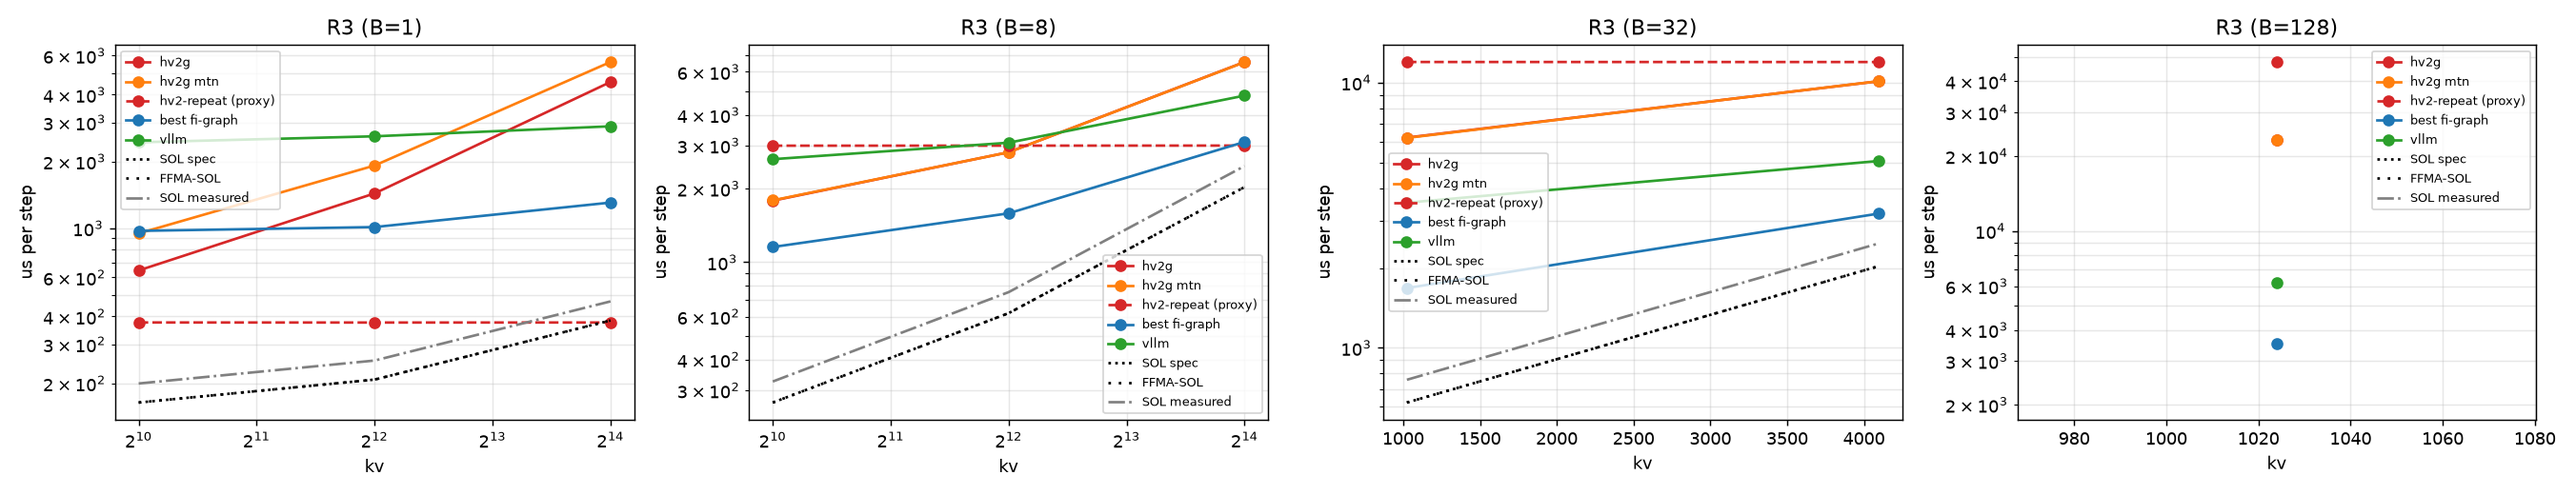
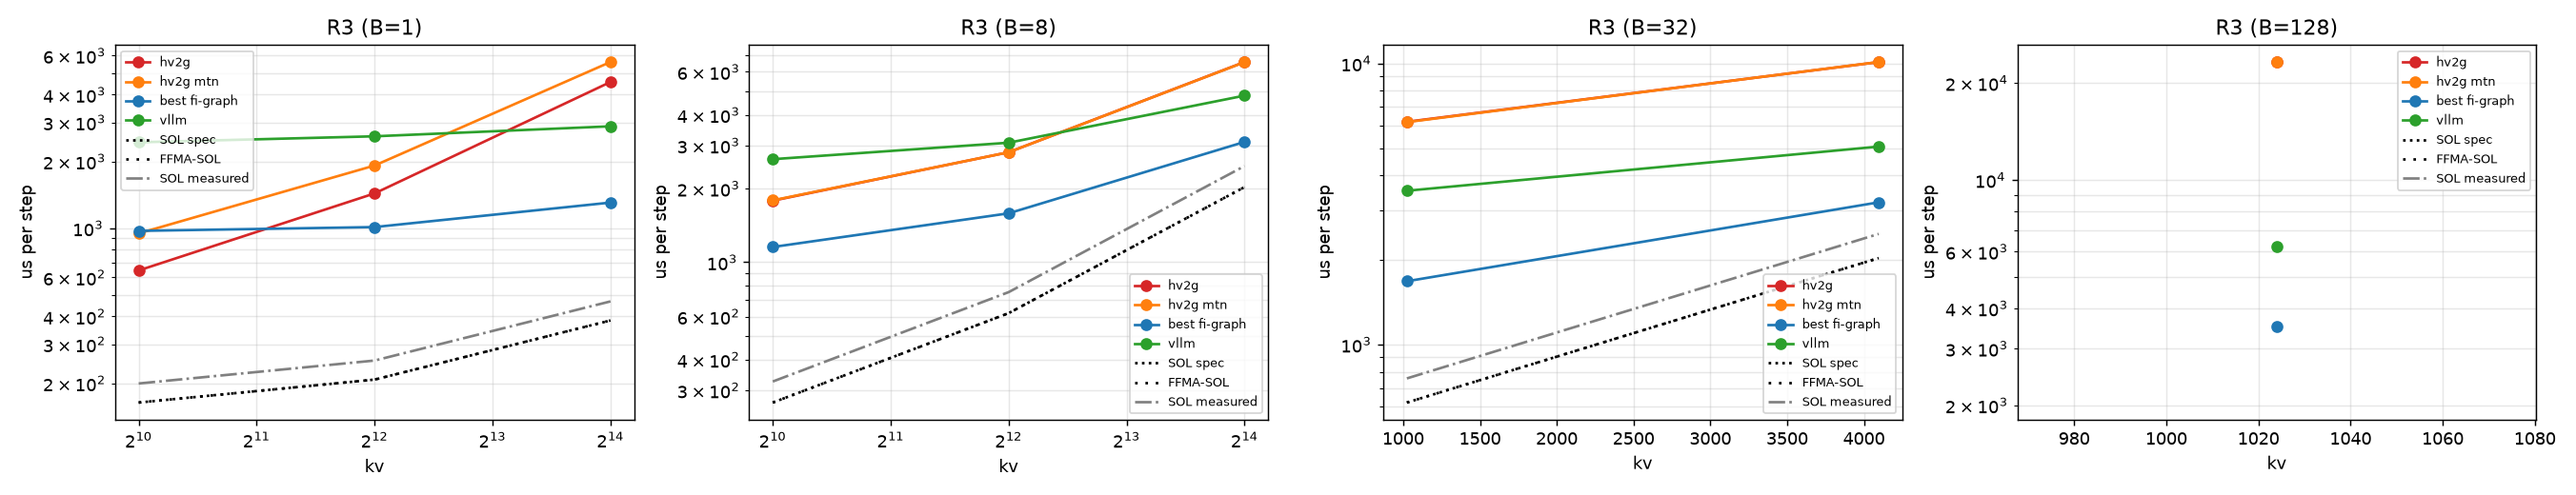
Report: show hv2-repeat proxy only in R0/R1, where its b1/kv128 work matches the step

diff --git a/regimebench/report.py b/regimebench/report.py
@@ -22,6 +22,8 @@ DASH = "-"
 FALLBACK_CLOCK_MHZ = 1965
 HEADLINE = "hv2g"
 PROXY = "hv2-repeat"
+# hv2-repeat runs b1/kv128 work per launch; it matches the real step only where every sequence is kv 128, q 1.
+PROXY_REGIMES = {"R0", "R1"}
 BASELINE = "fi-graph"
 VLLM = "vllm"
 REGIME_ORDER = [f"R{i}" for i in range(9)]
@@ -152,7 +154,7 @@ def regime_table(d: Data, regime: str) -> str:
         vl = (f"{_f(r['vllm'][1])} / {_f(r['vllm_gpu'])} ({r['vllm'][0]})") if r["vllm"] else DASH
         out.append("| " + " | ".join([
             r["id"], f"{_f(r['sol_us'])} ({r['bound'] or DASH})", _f(r["ffma_us"]), _cell(r["hv2g"]),
-            _cell(r["mtn"]), _cell(r["proxy"]), best, vl,
+            _cell(r["mtn"]), _cell(r["proxy"]) if regime in PROXY_REGIMES else "n/a", best, vl,
             _f(r["ratio"], "{:.2f}"), _f(r["pct_hv2g"]), _f(r["pct_ffma_hv2g"]), _f(r["pct_best"])]) + " |")
     return "\n".join(out)
 
@@ -307,7 +309,8 @@ def header(d: Data, records: list[dict]) -> str:
              f"cuBLAS bf16 {_f(gemm.get('peak_tflops'), '{:.0f}')} TFLOP/s, "
              f"SM clock at probe {clk.get('sm_mhz', DASH)} MHz",
              "- All times are microseconds per step (steady = back-to-back launches). "
-             "hv2-repeat is a timing proxy (N repeated b1 decodes), not a correct forward."]
+             "hv2-repeat is a timing proxy (N repeated b1 decodes), not a correct forward; shown only in R0/R1, "
+             "where its b1/kv128 work matches the step (elsewhere it skips KV work and can fall below SOL)."]
     lines.append("- FFMA-SOL = max(T_bw, flops / (148 SMs x 128 lanes x 2 x probed SM clock)); a ceiling for an "
                  "FP32-FFMA design like hv2g, not for a tensor-core one (hypothesis-grade model, not a measurement).")
     for rid in sorted({r.get("run_id") for r in records if r.get("run_id")}):
@@ -352,8 +355,9 @@ def plot_regime(d: Data, regime: str, out_dir: Path) -> Path | None:
                 ax.plot(*zip(*pairs), label=label, **{"marker": "o", **kw})
         series([r["hv2g"][1] if r["hv2g"] else None for r in rows], "hv2g", color="C3")
         series([r["mtn"][1] if r["mtn"] else None for r in rows], "hv2g mtn", color="C1")
-        series([r["proxy"][1] if r["proxy"] else None for r in rows], "hv2-repeat (proxy)",
-               color="C3", linestyle="--")
+        if regime in PROXY_REGIMES:
+            series([r["proxy"][1] if r["proxy"] else None for r in rows], "hv2-repeat (proxy)",
+                   color="C3", linestyle="--")
         series([r["best"][1] if r["best"] else None for r in rows], "best fi-graph", color="C0")
         series([r["vllm"][1] if r["vllm"] else None for r in rows], "vllm", color="C2")
         series([r["sol_us"] for r in rows], "SOL spec", color="k", linestyle=":", marker="")

diff --git a/results/2026-10-22-b200/REPORT.md b/results/2026-10-22-b200/REPORT.md
@@ -4,7 +4,7 @@
 - GPU: NVIDIA B200 (148 SMs), driver 580.178.04, host cayenne
 - Versions: torch 2.13.0, flashinfer-python 0.7.0.post1, vllm 0.31.0, triton 3.7.1, nvidia-ml-py 13.615.71; git a9e936ffdb (dirty)
 - SOL spec: 8.0 TB/s, BF16 dense 2.25 PFLOP/s (datasheet-derived, unverified); measured: copy BW 6546 GB/s median, cuBLAS bf16 1659 TFLOP/s, SM clock at probe 1965 MHz
-- All times are microseconds per step (steady = back-to-back launches). hv2-repeat is a timing proxy (N repeated b1 decodes), not a correct forward.
+- All times are microseconds per step (steady = back-to-back launches). hv2-repeat is a timing proxy (N repeated b1 decodes), not a correct forward; shown only in R0/R1, where its b1/kv128 work matches the step (elsewhere it skips KV work and can fall below SOL).
 - FFMA-SOL = max(T_bw, flops / (148 SMs x 128 lanes x 2 x probed SM clock)); a ceiling for an FP32-FFMA design like hv2g, not for a tensor-core one (hypothesis-grade model, not a measurement).
 - Run 20261023T061931Z-full-R0R1 (slurm job 9471, SM clock at probe 1965 MHz): regimes R0, R1
 - Run 20261023T061931Z-full-R2R8 (slurm job 9472, SM clock at probe 1965 MHz): regimes R2, R8
@@ -57,14 +57,14 @@
 
 | point | SOL us (bound) | FFMA-SOL us | hv2g us | hv2g mtn us | hv2-repeat us (proxy) | best baseline us (variant) | vllm wall / gpu us | hv2g/best | %SOL hv2g | %FFMA-SOL hv2g | %SOL best |
 |---|---|---|---|---|---|---|---|---|---|---|---|
-| R2-b1-kv128 | 150.9 (memory) | 150.9 | 377.7 | 667.1 | 373.3 | 883.8 (graph-pdl-best) | 2478.9 / 1819.5 (pdl) | 0.43 | 40.0 | 40.0 | 17.1 |
-| R2-b1-kv512 | 156.4 (memory) | 156.4 | 509.7 | 793.9 | 373.2 | 973.4 (graph-pdl-best) | 2531.3 / 1854.2 (nopdl) | 0.52 | 30.7 | 30.7 | 16.1 |
-| R2-b1-kv1024 | 163.8 (memory) | 163.8 | 639.4 | 951.5 | 373.2 | 975.2 (graph-pdl-best) | 2449.5 / 1857.7 (pdl) | 0.66 | 25.6 | 25.6 | 16.8 |
-| R2-b1-kv2048 | 178.5 (memory) | 178.5 | 907.6 | 1280.1 | 372.5 | 982.5 (graph-pdl-best) | 2557.5 / 1886.8 (pdl) | 0.92 | 19.7 | 19.7 | 18.2 |
-| R2-b1-kv4096 | 207.8 (memory) | 207.8 | 1431.2 | 1915.2 | 372.8 | 1013.8 (graph-pdl-best) | 2589.9 / 1896.0 (nopdl) | 1.41 | 14.5 | 14.5 | 20.5 |
-| R2-b1-kv8192 | 266.5 (memory) | 266.5 | 2479.4 | 3160.0 | 372.8 | 1160.7 (graph-pdl-best) | 2738.6 / 2052.5 (nopdl) | 2.14 | 10.8 | 10.8 | 23.0 |
-| R2-b1-kv16384 | 384.0 (memory) | 384.0 | 4560.1 | 5607.6 | 372.8 | 1308.2 (graph-pdl-best) | 2951.0 / 2263.5 (nopdl) | 3.49 | 8.4 | 8.4 | 29.4 |
-| R2-b1-kv32768 | 618.9 (memory) | 618.9 | 8703.6 | 10490.6 | 372.4 | 1611.7 (graph-pdl-best) | 3337.5 / 2643.5 (pdl) | 5.40 | 7.1 | 7.1 | 38.4 |
+| R2-b1-kv128 | 150.9 (memory) | 150.9 | 377.7 | 667.1 | n/a | 883.8 (graph-pdl-best) | 2478.9 / 1819.5 (pdl) | 0.43 | 40.0 | 40.0 | 17.1 |
+| R2-b1-kv512 | 156.4 (memory) | 156.4 | 509.7 | 793.9 | n/a | 973.4 (graph-pdl-best) | 2531.3 / 1854.2 (nopdl) | 0.52 | 30.7 | 30.7 | 16.1 |
+| R2-b1-kv1024 | 163.8 (memory) | 163.8 | 639.4 | 951.5 | n/a | 975.2 (graph-pdl-best) | 2449.5 / 1857.7 (pdl) | 0.66 | 25.6 | 25.6 | 16.8 |
+| R2-b1-kv2048 | 178.5 (memory) | 178.5 | 907.6 | 1280.1 | n/a | 982.5 (graph-pdl-best) | 2557.5 / 1886.8 (pdl) | 0.92 | 19.7 | 19.7 | 18.2 |
+| R2-b1-kv4096 | 207.8 (memory) | 207.8 | 1431.2 | 1915.2 | n/a | 1013.8 (graph-pdl-best) | 2589.9 / 1896.0 (nopdl) | 1.41 | 14.5 | 14.5 | 20.5 |
+| R2-b1-kv8192 | 266.5 (memory) | 266.5 | 2479.4 | 3160.0 | n/a | 1160.7 (graph-pdl-best) | 2738.6 / 2052.5 (nopdl) | 2.14 | 10.8 | 10.8 | 23.0 |
+| R2-b1-kv16384 | 384.0 (memory) | 384.0 | 4560.1 | 5607.6 | n/a | 1308.2 (graph-pdl-best) | 2951.0 / 2263.5 (nopdl) | 3.49 | 8.4 | 8.4 | 29.4 |
+| R2-b1-kv32768 | 618.9 (memory) | 618.9 | 8703.6 | 10490.6 | n/a | 1611.7 (graph-pdl-best) | 3337.5 / 2643.5 (pdl) | 5.40 | 7.1 | 7.1 | 38.4 |
 
 ![R2](R2.png)
 
@@ -72,15 +72,15 @@
 
 | point | SOL us (bound) | FFMA-SOL us | hv2g us | hv2g mtn us | hv2-repeat us (proxy) | best baseline us (variant) | vllm wall / gpu us | hv2g/best | %SOL hv2g | %FFMA-SOL hv2g | %SOL best |
 |---|---|---|---|---|---|---|---|---|---|---|---|
-| R3-b1-kv1024 | 163.8 (memory) | 163.8 | 645.1 | 947.6 | 376.0 | 972.5 (graph-pdl-best) | 2438.8 / 1882.2 (nopdl) | 0.66 | 25.4 | 25.4 | 16.8 |
-| R3-b1-kv4096 | 207.8 (memory) | 207.8 | 1435.1 | 1916.8 | 375.7 | 1012.0 (graph-pdl-best) | 2595.6 / 1911.6 (nopdl) | 1.42 | 14.5 | 14.5 | 20.5 |
-| R3-b1-kv16384 | 384.0 (memory) | 384.0 | 4561.1 | 5612.8 | 375.9 | 1304.9 (graph-pdl-best) | 2879.2 / 2289.7 (nopdl) | 3.50 | 8.4 | 8.4 | 29.4 |
-| R3-b8-kv1024 | 267.2 (memory) | 267.2 | 1784.6 | 1790.2 | 2993.6 | 1154.2 (graph-pdl-best) | 2636.5 / 2011.3 (nopdl) | 1.55 | 15.0 | 15.0 | 23.1 |
-| R3-b8-kv4096 | 619.5 (memory) | 619.5 | 2814.4 | 2813.6 | 2994.7 | 1584.3 (graph-pdl-best) | 3078.7 / 2426.9 (pdl) | 1.78 | 22.0 | 22.0 | 39.1 |
-| R3-b8-kv16384 | 2028.8 (memory) | 2028.8 | 6578.3 | 6569.3 | 2996.7 | 3102.3 (graph-pdl-best) | 4794.7 / 3986.7 (nopdl) | 2.12 | 30.8 | 30.8 | 65.4 |
-| R3-b32-kv1024 | 621.7 (memory) | 621.7 | 6204.0 | 6187.0 | 11961.2 | 1679.8 (graph-pdl-best) | 3525.4 / 2490.7 (pdl) | 3.69 | 10.0 | 10.0 | 37.0 |
-| R3-b32-kv4096 | 2031.0 (memory) | 2031.0 | 10118.1 | 10126.4 | 11957.8 | 3207.2 (graph-pdl-best) | 5064.6 / 4015.6 (nopdl) | 3.15 | 20.1 | 20.1 | 63.3 |
-| R3-b128-kv1024 | 2039.6 (memory) | 2453.5 | 23214.3 | 23248.6 | 47832.7 | 3518.7 (graph-pdl-best) | 6206.0 / 4230.9 (pdl) | 6.60 | 8.8 | 10.6 | 58.0 |
+| R3-b1-kv1024 | 163.8 (memory) | 163.8 | 645.1 | 947.6 | n/a | 972.5 (graph-pdl-best) | 2438.8 / 1882.2 (nopdl) | 0.66 | 25.4 | 25.4 | 16.8 |
+| R3-b1-kv4096 | 207.8 (memory) | 207.8 | 1435.1 | 1916.8 | n/a | 1012.0 (graph-pdl-best) | 2595.6 / 1911.6 (nopdl) | 1.42 | 14.5 | 14.5 | 20.5 |
+| R3-b1-kv16384 | 384.0 (memory) | 384.0 | 4561.1 | 5612.8 | n/a | 1304.9 (graph-pdl-best) | 2879.2 / 2289.7 (nopdl) | 3.50 | 8.4 | 8.4 | 29.4 |
+| R3-b8-kv1024 | 267.2 (memory) | 267.2 | 1784.6 | 1790.2 | n/a | 1154.2 (graph-pdl-best) | 2636.5 / 2011.3 (nopdl) | 1.55 | 15.0 | 15.0 | 23.1 |
+| R3-b8-kv4096 | 619.5 (memory) | 619.5 | 2814.4 | 2813.6 | n/a | 1584.3 (graph-pdl-best) | 3078.7 / 2426.9 (pdl) | 1.78 | 22.0 | 22.0 | 39.1 |
+| R3-b8-kv16384 | 2028.8 (memory) | 2028.8 | 6578.3 | 6569.3 | n/a | 3102.3 (graph-pdl-best) | 4794.7 / 3986.7 (nopdl) | 2.12 | 30.8 | 30.8 | 65.4 |
+| R3-b32-kv1024 | 621.7 (memory) | 621.7 | 6204.0 | 6187.0 | n/a | 1679.8 (graph-pdl-best) | 3525.4 / 2490.7 (pdl) | 3.69 | 10.0 | 10.0 | 37.0 |
+| R3-b32-kv4096 | 2031.0 (memory) | 2031.0 | 10118.1 | 10126.4 | n/a | 3207.2 (graph-pdl-best) | 5064.6 / 4015.6 (nopdl) | 3.15 | 20.1 | 20.1 | 63.3 |
+| R3-b128-kv1024 | 2039.6 (memory) | 2453.5 | 23214.3 | 23248.6 | n/a | 3518.7 (graph-pdl-best) | 6206.0 / 4230.9 (pdl) | 6.60 | 8.8 | 10.6 | 58.0 |
 
 ![R3](R3.png)
 
@@ -88,12 +88,12 @@
 
 | point | SOL us (bound) | FFMA-SOL us | hv2g us | hv2g mtn us | hv2-repeat us (proxy) | best baseline us (variant) | vllm wall / gpu us | hv2g/best | %SOL hv2g | %FFMA-SOL hv2g | %SOL best |
 |---|---|---|---|---|---|---|---|---|---|---|---|
-| R4-b1-T16 | 149.3 (memory) | 193.9 | 2124.3 | - | 5966.2 | 1040.1 (graph-pdl-best) | 7186.5 / 6915.3 (pdl) | 2.04 | 7.0 | 9.1 | 14.4 |
-| R4-b1-T64 | 150.0 (memory) | 767.8 | 7154.2 | - | 23856.1 | 1195.7 (graph-pdl-best) | 8288.5 / 7916.3 (pdl) | 5.98 | 2.1 | 10.7 | 12.5 |
-| R4-b1-T256 | 152.8 (memory) | 3134.2 | 27736.9 | - | 95305.9 | 1542.2 (graph-pdl-best) | 6738.7 / 6470.3 (pdl) | 17.98 | 0.6 | 11.3 | 9.9 |
-| R4-b1-T1024 | 454.5 (compute) | 13735.8 | 122221.0 | - | 381466.7 | 2413.5 (graph-nopdl-best) | 4377.8 / 3973.0 (pdl) | 50.64 | 0.4 | 11.2 | 18.8 |
-| R4-b1-T4096 | 2459.0 (compute) | 74314.4 | 659280.1 | - | 1528325.8 | 6780.3 (graph-nopdl-cublas) | 9524.3 / 8657.8 (pdl) | 97.23 | 0.4 | 11.3 | 36.3 |
-| R4-b1-T8192 | 6628.2 (compute) | 200314.2 | 1768641.9 | - | 3052732.7 | 14919.0 (graph-pdl-best) | 17926.4 / 17010.5 (pdl) | 118.55 | 0.4 | 11.3 | 44.4 |
+| R4-b1-T16 | 149.3 (memory) | 193.9 | 2124.3 | - | n/a | 1040.1 (graph-pdl-best) | 7186.5 / 6915.3 (pdl) | 2.04 | 7.0 | 9.1 | 14.4 |
+| R4-b1-T64 | 150.0 (memory) | 767.8 | 7154.2 | - | n/a | 1195.7 (graph-pdl-best) | 8288.5 / 7916.3 (pdl) | 5.98 | 2.1 | 10.7 | 12.5 |
+| R4-b1-T256 | 152.8 (memory) | 3134.2 | 27736.9 | - | n/a | 1542.2 (graph-pdl-best) | 6738.7 / 6470.3 (pdl) | 17.98 | 0.6 | 11.3 | 9.9 |
+| R4-b1-T1024 | 454.5 (compute) | 13735.8 | 122221.0 | - | n/a | 2413.5 (graph-nopdl-best) | 4377.8 / 3973.0 (pdl) | 50.64 | 0.4 | 11.2 | 18.8 |
+| R4-b1-T4096 | 2459.0 (compute) | 74314.4 | 659280.1 | - | n/a | 6780.3 (graph-nopdl-cublas) | 9524.3 / 8657.8 (pdl) | 97.23 | 0.4 | 11.3 | 36.3 |
+| R4-b1-T8192 | 6628.2 (compute) | 200314.2 | 1768641.9 | - | n/a | 14919.0 (graph-pdl-best) | 17926.4 / 17010.5 (pdl) | 118.55 | 0.4 | 11.3 | 44.4 |
 
 ![R4](R4.png)
 
@@ -101,10 +101,10 @@
 
 | point | SOL us (bound) | FFMA-SOL us | hv2g us | hv2g mtn us | hv2-repeat us (proxy) | best baseline us (variant) | vllm wall / gpu us | hv2g/best | %SOL hv2g | %FFMA-SOL hv2g | %SOL best |
 |---|---|---|---|---|---|---|---|---|---|---|---|
-| R5-b4-T512 | 855.8 (compute) | 25864.7 | 230127.5 | - | 763993.1 | 3016.0 (graph-nopdl-best) | 5554.4 / 4536.6 (pdl) | 76.30 | 0.4 | 11.2 | 28.4 |
-| R5-b4-T2048 | 4063.1 (compute) | 122792.3 | 1092980.0 | - | 3049991.9 | 9989.1 (graph-pdl-best) | 13494.3 / 12351.9 (pdl) | 109.42 | 0.4 | 11.2 | 40.7 |
-| R5-b16-T512 | 3423.3 (compute) | 103458.8 | 921797.5 | - | 3051215.5 | 8841.3 (graph-pdl-best) | 12694.1 / 11434.6 (pdl) | 104.26 | 0.4 | 11.2 | 38.7 |
-| R5-b16-T2048 | 16252.2 (compute) | 491169.1 | 4368126.0 | - | - | 38829.3 (graph-pdl-best) | 44965.1 / 43087.0 (pdl) | 112.50 | 0.4 | 11.2 | 41.9 |
+| R5-b4-T512 | 855.8 (compute) | 25864.7 | 230127.5 | - | n/a | 3016.0 (graph-nopdl-best) | 5554.4 / 4536.6 (pdl) | 76.30 | 0.4 | 11.2 | 28.4 |
+| R5-b4-T2048 | 4063.1 (compute) | 122792.3 | 1092980.0 | - | n/a | 9989.1 (graph-pdl-best) | 13494.3 / 12351.9 (pdl) | 109.42 | 0.4 | 11.2 | 40.7 |
+| R5-b16-T512 | 3423.3 (compute) | 103458.8 | 921797.5 | - | n/a | 8841.3 (graph-pdl-best) | 12694.1 / 11434.6 (pdl) | 104.26 | 0.4 | 11.2 | 38.7 |
+| R5-b16-T2048 | 16252.2 (compute) | 491169.1 | 4368126.0 | - | n/a | 38829.3 (graph-pdl-best) | 44965.1 / 43087.0 (pdl) | 112.50 | 0.4 | 11.2 | 41.9 |
 
 ![R5](R5.png)
 
@@ -112,10 +112,10 @@
 
 | point | SOL us (bound) | FFMA-SOL us | hv2g us | hv2g mtn us | hv2-repeat us (proxy) | best baseline us (variant) | vllm wall / gpu us | hv2g/best | %SOL hv2g | %FFMA-SOL hv2g | %SOL best |
 |---|---|---|---|---|---|---|---|---|---|---|---|
-| R6-b1-kv1024-q2 | 163.8 (memory) | 163.8 | 1032.6 | 1041.7 | 749.5 | 1074.8 (graph-pdl-best) | 3882.2 / 3656.4 (pdl) | 0.96 | 15.9 | 15.9 | 15.2 |
-| R6-b1-kv1024-q4 | 163.8 (memory) | 163.8 | 1194.9 | 1190.6 | 1496.1 | 1107.0 (graph-pdl-best) | 6568.4 / 6333.0 (pdl) | 1.08 | 13.7 | 13.7 | 14.8 |
-| R6-b1-kv1024-q8 | 163.9 (memory) | 163.9 | 1560.3 | 1566.1 | 2987.0 | 1162.2 (graph-pdl-best) | 6624.1 / 6388.3 (pdl) | 1.34 | 10.5 | 10.5 | 14.1 |
-| R6-b1-kv1024-q16 | 164.0 (memory) | 244.4 | 2686.7 | 2687.8 | 5967.1 | 1164.4 (graph-pdl-best) | 6639.7 / 6413.3 (pdl) | 2.31 | 6.1 | 9.1 | 14.1 |
+| R6-b1-kv1024-q2 | 163.8 (memory) | 163.8 | 1032.6 | 1041.7 | n/a | 1074.8 (graph-pdl-best) | 3882.2 / 3656.4 (pdl) | 0.96 | 15.9 | 15.9 | 15.2 |
+| R6-b1-kv1024-q4 | 163.8 (memory) | 163.8 | 1194.9 | 1190.6 | n/a | 1107.0 (graph-pdl-best) | 6568.4 / 6333.0 (pdl) | 1.08 | 13.7 | 13.7 | 14.8 |
+| R6-b1-kv1024-q8 | 163.9 (memory) | 163.9 | 1560.3 | 1566.1 | n/a | 1162.2 (graph-pdl-best) | 6624.1 / 6388.3 (pdl) | 1.34 | 10.5 | 10.5 | 14.1 |
+| R6-b1-kv1024-q16 | 164.0 (memory) | 244.4 | 2686.7 | 2687.8 | n/a | 1164.4 (graph-pdl-best) | 6639.7 / 6413.3 (pdl) | 2.31 | 6.1 | 9.1 | 14.1 |
 
 ![R6](R6.png)
 
@@ -123,9 +123,9 @@
 
 | point | SOL us (bound) | FFMA-SOL us | hv2g us | hv2g mtn us | hv2-repeat us (proxy) | best baseline us (variant) | vllm wall / gpu us | hv2g/best | %SOL hv2g | %FFMA-SOL hv2g | %SOL best |
 |---|---|---|---|---|---|---|---|---|---|---|---|
-| R7-p512-d8 | 289.3 (memory) | 8234.8 | 74158.4 | 73538.2 | 194283.8 | 2514.4 (graph-nopdl-best) | 5926.6 / 5187.4 (pdl) | 29.49 | 0.4 | 11.1 | 11.5 |
-| R7-p512-d32 | 643.8 (memory) | 8694.9 | 78679.6 | 78631.2 | 203147.1 | 3093.0 (graph-nopdl-cublas) | 6548.8 / 5447.5 (pdl) | 25.44 | 0.8 | 11.1 | 20.8 |
-| R7-p512-d128 | 2061.7 (memory) | 10535.0 | 95297.0 | 95442.7 | 239315.6 | 4812.1 (graph-nopdl-cublas) | 8509.5 / 6085.9 (pdl) | 19.80 | 2.2 | 11.1 | 42.8 |
+| R7-p512-d8 | 289.3 (memory) | 8234.8 | 74158.4 | 73538.2 | n/a | 2514.4 (graph-nopdl-best) | 5926.6 / 5187.4 (pdl) | 29.49 | 0.4 | 11.1 | 11.5 |
+| R7-p512-d32 | 643.8 (memory) | 8694.9 | 78679.6 | 78631.2 | n/a | 3093.0 (graph-nopdl-cublas) | 6548.8 / 5447.5 (pdl) | 25.44 | 0.8 | 11.1 | 20.8 |
+| R7-p512-d128 | 2061.7 (memory) | 10535.0 | 95297.0 | 95442.7 | n/a | 4812.1 (graph-nopdl-cublas) | 8509.5 / 6085.9 (pdl) | 19.80 | 2.2 | 11.1 | 42.8 |
 
 ![R7](R7.png)
 
@@ -133,7 +133,7 @@
 
 | point | SOL us (bound) | FFMA-SOL us | hv2g us | hv2g mtn us | hv2-repeat us (proxy) | best baseline us (variant) | vllm wall / gpu us | hv2g/best | %SOL hv2g | %FFMA-SOL hv2g | %SOL best |
 |---|---|---|---|---|---|---|---|---|---|---|---|
-| R8-b32-ragged | 1893.3 (memory) | 1893.3 | 12097.8 | 12082.6 | 11863.2 | 3110.1 (graph-pdl-best) | 5486.0 / 4526.7 (nopdl) | 3.89 | 15.6 | 15.6 | 60.9 |
+| R8-b32-ragged | 1893.3 (memory) | 1893.3 | 12097.8 | 12082.6 | n/a | 3110.1 (graph-pdl-best) | 5486.0 / 4526.7 (nopdl) | 3.89 | 15.6 | 15.6 | 60.9 |
 
 ![R8](R8.png)
 
